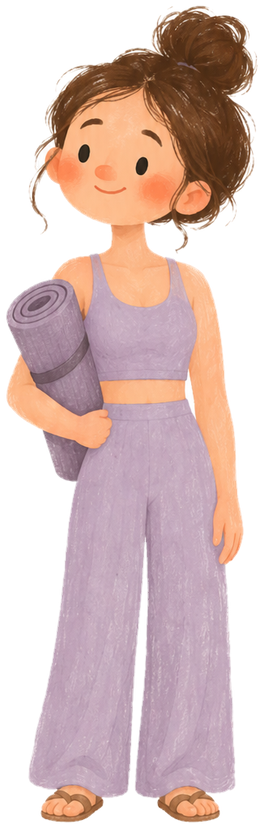
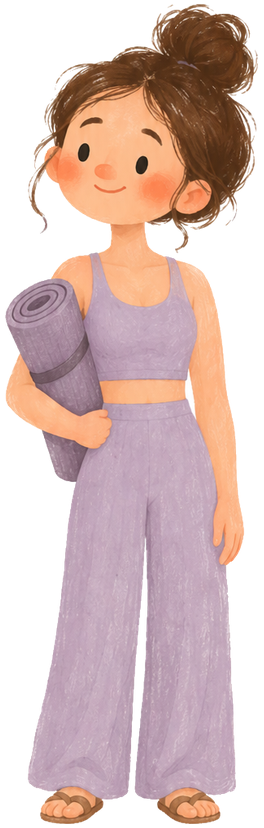
Yoga lady sprites: remove the white rim around the hair
Re-cut from the original ChatGPT sheet with Docs/tools/cut_sprites.py, which also
removes white pockets between hair strands and un-mixes the edge from white.
Same pixel size as before, so the pivot and placement are unchanged.

diff --git a/Docs/tools/cut_sprites.py b/Docs/tools/cut_sprites.py
@@ -1,0 +1,74 @@
+"""Cut a ChatGPT two-pose sheet (figures on white, stacked or side by side) into neutral/happy sprites, without a white rim.
+Usage (needs numpy, scipy, pillow): python3 Docs/tools/cut_sprites.py <sheet.png> <neutral_out.png> <happy_out.png> [match_neutral.png match_happy.png]
+1. Background = white flood from the border, plus near-white pixels within RIM px of it (catches the
+   white pockets between hair wisps the flood cannot reach; interior whites such as eyes are too far in).
+2. Edge band: each pixel within RIM px of the background is un-mixed from white, alpha = how far its
+   colour is from white relative to the nearest solid interior colour, and its colour set to that solid
+   colour, so semi-transparent wisps carry hair colour, not white.
+3. If match files are given, the result is scaled to their height and centred on their canvas size,
+   so the sprite drops into Unity with the same size and pivot."""
+import sys
+import numpy as np
+from PIL import Image, ImageDraw
+from scipy import ndimage
+
+RIM = 10   # near-white pockets this close to the background are background
+BAND = 3   # edge band that gets un-mixed from white
+src = Image.open(sys.argv[1]).convert("RGB")
+W, H = src.size
+flood = src.copy(); sent = (255, 0, 255)
+for x in range(0, W, 8):
+    for y in (0, H - 1):
+        if flood.getpixel((x, y)) != sent: ImageDraw.floodfill(flood, (x, y), sent, thresh=40)
+for y in range(0, H, 8):
+    for x in (0, W - 1):
+        if flood.getpixel((x, y)) != sent: ImageDraw.floodfill(flood, (x, y), sent, thresh=40)
+rgb = np.asarray(src).astype(np.float32)
+bg = np.all(np.asarray(flood) == sent, axis=2)
+dist_bg = ndimage.distance_transform_edt(~bg)
+lum_min = rgb.min(axis=2); sat = rgb.max(axis=2) - lum_min
+nearwhite = (lum_min > 222) & (sat < 22)
+bg |= nearwhite & (dist_bg <= RIM)
+dist_bg = ndimage.distance_transform_edt(~bg)
+solid = (~bg) & (dist_bg > BAND)
+# local solid colour: normalised blur of the solid pixels (smooth, no streaks)
+w = ndimage.gaussian_filter(solid.astype(np.float32), 6)
+fg = np.dstack([ndimage.gaussian_filter(rgb[..., c] * solid, 6) for c in range(3)]) / np.maximum(w, 1e-3)[..., None]
+band = (~bg) & (~solid)
+num = (255.0 - rgb).sum(axis=2); den = np.maximum((255.0 - fg).sum(axis=2), 1.0)
+a_band = np.clip(num / den, 0, 1)
+alpha = np.where(bg, 0.0, np.where(band, a_band, 1.0))
+# un-mix from white: keep the pixel's own texture, just remove the white it was blended with
+a3 = np.maximum(alpha, 0.05)[..., None]
+own = np.clip((rgb - (1 - a3) * 255.0) / a3, 0, 255)
+mixw = np.clip(alpha * 2, 0, 1)[..., None]   # very faint pixels lean on the local solid colour
+col = np.where(band[..., None], own * mixw + fg * (1 - mixw), rgb)
+# tidy: drop isolated faint specks
+alpha[alpha < 0.08] = 0
+out = Image.fromarray(np.dstack([col, alpha * 255]).astype(np.uint8))
+
+def split(im):
+    """Two figures stacked or side by side: cut along the widest empty band, rows or columns."""
+    a = np.asarray(im)[..., 3] > 0
+    best = None
+    for axis in (1, 0):  # axis 1: rows (stacked), axis 0: columns (side by side)
+        idx = np.where(a.any(axis=axis))[0]
+        g = np.diff(idx); k = g.argmax()
+        if best is None or g[k] > best[0]: best = (g[k], axis, idx[k], idx[k + 1])
+    _, axis, e0, e1 = best
+    if axis == 1: first, second = im.crop((0, 0, W, e0 + 1)), im.crop((0, e1, W, H))
+    else: first, second = im.crop((0, 0, e0 + 1, H)), im.crop((e1, 0, W, H))
+    return first.crop(first.getbbox()), second.crop(second.getbbox())
+
+figs = split(out)
+outs = sys.argv[2:4]; matches = sys.argv[4:6]
+for i, fig in enumerate(figs):
+    if matches:
+        ref = Image.open(matches[i]); rw, rh = ref.size
+        k = (rh - 8) / fig.height
+        f = fig.resize((round(fig.width * k), rh - 8), Image.LANCZOS)
+        canvas = Image.new("RGBA", (rw, rh), (0, 0, 0, 0))
+        canvas.alpha_composite(f, ((rw - f.width) // 2, 4))
+    else:
+        canvas = Image.new("RGBA", (fig.width + 8, fig.height + 8), (0, 0, 0, 0)); canvas.alpha_composite(fig, (4, 4))
+    canvas.save(outs[i]); print(outs[i], canvas.size)
